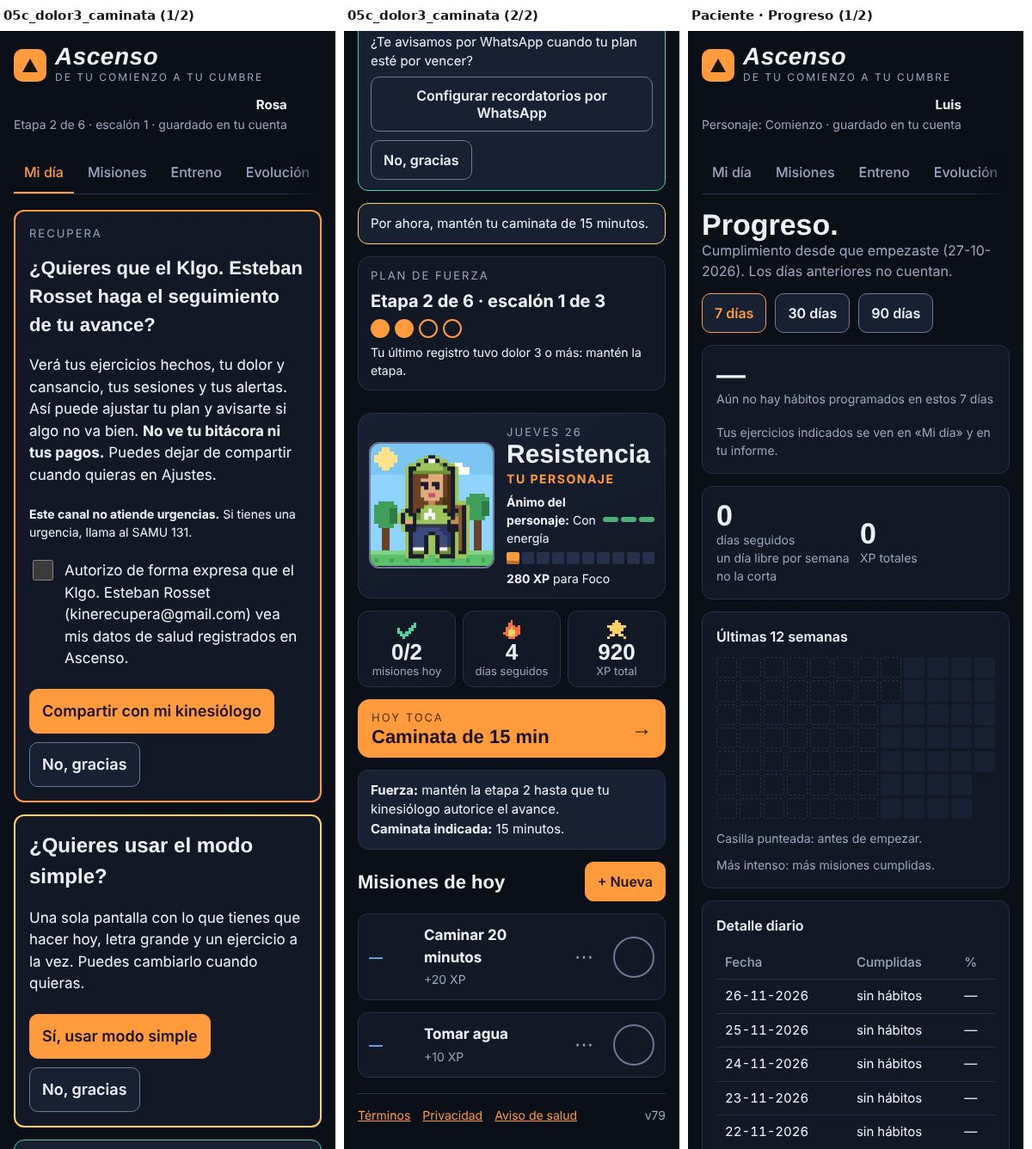
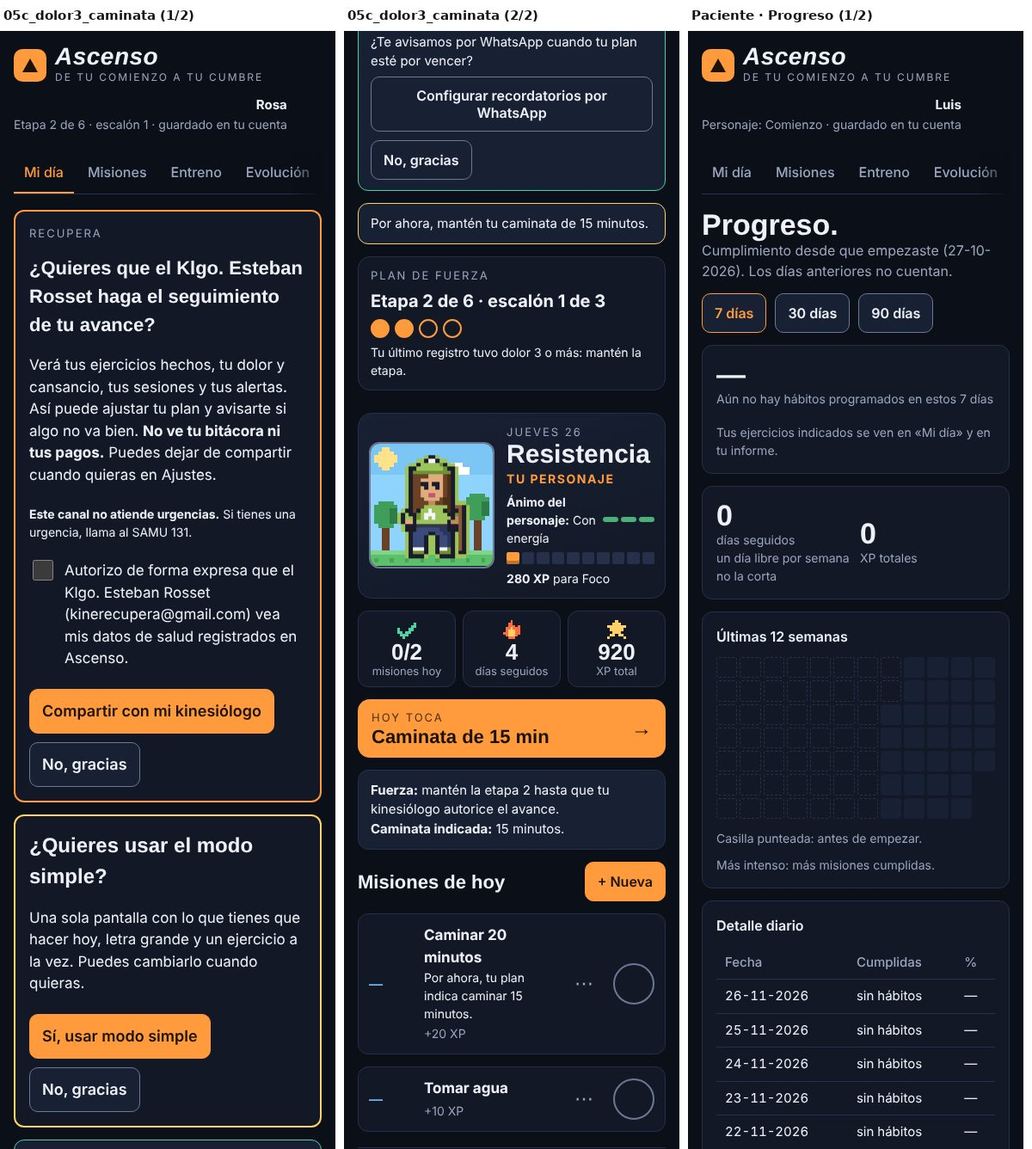
Copia de prueba v79: cuatro decisiones del 26-11 (la app de los pacientes no cambia)
Claude-Session: https://claude.ai/code/session_01J9tU8kEPtqaroEiwXZirqq

Changed region(s): [[0.3392, 0.8286, 0.555, 0.982], [0.5858, 0.89, 0.6475, 0.982], [0.5858, 0.8286, 0.6475, 0.8593]]

diff --git a/beta/index.html b/beta/index.html
@@ -2,7 +2,7 @@
 <html lang="es">
 <head><base href="/ascenso/"><meta name="robots" content="noindex,nofollow"><script>(function(){var P="beta::",S=Storage.prototype,g=S.getItem,t=S.setItem,r=S.removeItem;S.getItem=function(k){return g.call(this,P+k)};S.setItem=function(k,v){return t.call(this,P+k,v)};S.removeItem=function(k){return r.call(this,P+k)};window.__BETA=true;window.__BETA_OK=[]})();</script>
 <meta charset="utf-8">
-<meta http-equiv="Content-Security-Policy" content="script-src 'self' 'sha256-s/2Ct3tFYhvXDkHKQXgCxKZn0b7j8MYsCZJcokQtB40=' 'sha256-rlMPIviDfPSImcaiMeN6RcyIyt8CKX0NikFTPOuSPvA=' 'sha256-AFdyW6QBsN7g3o2Wol3DzaFtzZPYZuMmQ8KwB76Xs6I=' 'sha256-5m2u4pl+QQ/JE5w8ukPTJ/in6Wfsb5JmjLwGXVXoulQ=' 'sha256-x6Jjqo12cp5KPEwhwsD15s6v7TK37973w38eJjFjN10='; object-src 'none'; base-uri 'self'">
+<meta http-equiv="Content-Security-Policy" content="script-src 'self' 'sha256-s/2Ct3tFYhvXDkHKQXgCxKZn0b7j8MYsCZJcokQtB40=' 'sha256-yr4Az85wallbLo+BJuo4EHhn4UUh6kw2YvCLg58huko=' 'sha256-AFdyW6QBsN7g3o2Wol3DzaFtzZPYZuMmQ8KwB76Xs6I=' 'sha256-5m2u4pl+QQ/JE5w8ukPTJ/in6Wfsb5JmjLwGXVXoulQ=' 'sha256-x6Jjqo12cp5KPEwhwsD15s6v7TK37973w38eJjFjN10='; object-src 'none'; base-uri 'self'">
 <meta name="viewport" content="width=device-width,initial-scale=1,viewport-fit=cover">
 <meta name="theme-color" content="#0b0f17">
 
@@ -343,7 +343,7 @@ const STAGES=[
  ["Fuerza",[["sentadilla","3×10","Sentadilla con pausa de 2 segundos abajo"],["flex_rod","3×8"],["zancada","2×8 por lado"],["plancha","3×30 s"]]],
  ["Potencia",[["sentadilla","4×10","Sentadilla lenta (3 segundos al bajar)"],["flex","3×6"],["zancada","3×8 por lado","Zancada caminando"],["lateral","2×20 s por lado"]]],
  ["Dominio",[["bulgara","3×8 por lado"],["flex","4×8"],["puente1","3×10 por lado"],["plancha","3×45 s"]]]];
-const ADULTS_ONLY=true,PRIV_MAIL="kinerecupera@gmail.com",RESP=null;
+const ADULTS_ONLY=true,PRIV_MAIL="kinerecupera@gmail.com",RESP="Esteban Rosset, kinesiólogo, Registro Superintendencia de Salud N.º 525653";
 const LEGAL={
 terms:"TÉRMINOS DE USO\n\nPrestador: Esteban Rosset, kinesiólogo. Contacto: kinerecupera@gmail.com.\n\n1. Qué es. Una aplicación para organizar hábitos, registrar actividad y seguir un plan general de ejercicio. Por sí sola no es un servicio de salud ni reemplaza una evaluación profesional.\n2. Seguimiento con tu profesional. Si decides compartir tu avance con un profesional registrado en Ascenso y te indica ejercicios, esa indicación es parte de la atención que ese profesional te presta, bajo su responsabilidad, y la registra en tu ficha clínica. Puedes dejar de compartir cuando quieras desde Entreno.\n3. Edad. Para personas de 18 años o más. No se admiten menores de 14 años. Una persona de 14 a 17 solo puede usar Ascenso con su kinesiólogo y con la autorización de su madre, padre o tutor legal, que la entrega desde su propia cuenta mediante un código y que el kinesiólogo confirma en persona. Al cumplir 18, la persona decide por sí misma. Sus datos de salud se guardan solo después de esa autorización, que se puede retirar en cualquier momento desde Ajustes (al retirarla se borran). Las cuentas de menores no muestran hábitos de alimentación. Los mensajes que le escribas a tu kinesiólogo desde la app se guardan junto a tu avance y solo los ve él; no es un canal de urgencias.\n4. Acceso. 14 días de prueba gratis, una vez por cuenta. Después, $9.990 CLP por 30 días. No hay cobros automáticos: cada renovación la pagas tú. El acceso se activa automáticamente cuando Mercado Pago aprueba el pago hecho desde el botón Pagar de la app; si eso no ocurre, el administrador lo activa al comprobar el pago. Dos días antes del vencimiento te avisamos en la app y, si activaste los avisos, en tu teléfono.\n5. Vencimiento. Al vencer no puedes registrar nueva actividad, pero tu historial se conserva y siempre puedes descargarlo o borrarlo gratis.\n6. Devoluciones. Si pagaste y no quedaste conforme, escríbenos a kinerecupera@gmail.com y revisamos tu caso.\n7. Uso responsable. Los puntos reflejan constancia, no capacidad física. Detén la actividad ante dolor en el pecho, mareo, palpitaciones o falta de aire fuera de lo normal.",
 privacy:"POLÍTICA DE PRIVACIDAD (Ley 19.628 y Ley 21.719)\n\nResponsable del tratamiento: "+(RESP||"[pendiente de confirmar: nombre legal de la persona natural, o razón social y representante de la empresa]")+". Contacto: kinerecupera@gmail.com. Alojamiento: Supabase (cuentas y datos) y GitHub Pages (aplicación); ambos proveedores operan fuera de Chile.\n\nQué datos tratamos y para qué:\n• Cuenta: tu correo, el nombre que eliges y un identificador. Para darte acceso y escribirte sobre tu cuenta.\n• Fecha de nacimiento (año y mes, obligatorios): para calcular tu edad y adaptar tu plan y las imágenes. Por ahora, Ascenso es solo para personas de 18 años o más.\n• Celular (opcional): solo si lo das, para que tu kinesiólogo pueda llamarte y, si lo autorizas aparte, para recordatorios de renovación por WhatsApp. Si es el número de quien te ayuda, eso no le autoriza a recibir tus datos de salud.\n• Autorización de menores: si autorizas a un menor, guardamos tu nombre, tu relación con él y la fecha, asociados a tu cuenta y a la suya, hasta que la retires o el menor cumpla 18.\n• Peso y estatura (opcionales): para que tu profesional los tenga a la vista. Puedes borrarlos en Ajustes.\n• Actividad: misiones, cumplimiento, puntos y bitácora. Para mostrarte tu progreso.\n• Uso anónimo: contamos por día cuántas veces se usan algunas funciones (por ejemplo, abrir un ejercicio), sin tu nombre, correo ni ningún identificador. Para mejorar la app.\n• Pagos: número de operación y fechas de acceso. Para activar tu membresía.\n• Salud (solo con tu autorización expresa y separada): cuestionario previo, esfuerzo, dolor y síntomas; y, la autorización que registre tu profesional. Para ajustar tu plan de fuerza.\n• Recordatorios por WhatsApp (solo si los aceptas, aparte): usamos tu celular para enviarte recordatorios de renovación cuando tu plan esté por vencer o haya vencido. No enviamos publicidad ni datos de salud por ese medio. Los envía el responsable desde WhatsApp (Meta, fuera de Chile). Puedes desactivarlos en Ajustes o respondiendo NO; tu celular se conserva para el contacto de tu cuenta.\n• Avisos (solo si los activas): identificador de notificaciones de tu dispositivo y tu zona horaria. Para avisarte a la hora de tus misiones.\n• Comentarios (solo si los envías): lo que escribas en «Tu opinión» o en la encuesta de la primera semana, junto a tu correo. Para mejorar la aplicación.\n• Compartir con tu profesional (solo si lo autorizas de forma expresa, y solo con profesionales registrados en Ascenso): el profesional dueño del correo que indiques ve tu cumplimiento, sesiones, esfuerzo, dolor, alertas, cuestionario previo, si usas la versión adaptada y quién autorizó tu avance; y puede indicarte ejercicios, que verás en Entreno. No ve tu bitácora ni tus pagos. Puedes revocarlo cuando quieras en Entreno.\n• Ficha clínica de tu profesional: si un profesional de RECUPERA te indica ejercicios, esa indicación (lista de ejercicios, dosis, fecha) y tu correo se copian a la ficha clínica que RECUPERA lleva de tu atención, alojada en otro proyecto de Supabase (fuera de Chile) y administrada por el mismo responsable. Se rige por la Ley 20.584 y se conserva el tiempo que exige la normativa de fichas clínicas, aunque elimines tu cuenta de Ascenso.\n• Autorizaciones clínicas: si tu profesional autoriza tu plan de fuerza o tu avance, guardamos su correo, la fecha y en qué se basó.\n\nSeguridad: el acceso a tus datos se controla en el servidor; nadie más que tú y los profesionales que autorices los ve. Si ocurre una vulneración que afecte tus datos, te avisaremos por correo y a la autoridad cuando la ley lo exija.\n\nCuánto tiempo: mientras tengas cuenta. Los datos de salud se borran al retirar la autorización. Cuando eliminas tu cuenta se borra todo, salvo los registros de pago (número de operación, monto y fechas), que se guardan el tiempo que exige la ley tributaria.\n\nTus derechos y cómo ejercerlos: puedes pedir saber qué datos tenemos sobre ti, para qué los usamos y a quién se los comunicamos; corregirlos; pedir que se borren; oponerte a un uso o pedir que se bloquee; y pedir una copia para llevarla a otro servicio. Puedes descargar y borrar tus datos desde Ajustes, sin costo. Para cualquier otra solicitud sobre tus datos personales, escribe a "+PRIV_MAIL+", idealmente desde el correo de tu cuenta.",
@@ -417,8 +417,14 @@ function toast(t){const el=$("#toast");el.textContent=t;el.hidden=false;clearTim
 function totalXP(){let x=0;for(const d in S.done)for(const m in S.done[d])x+=S.done[d][m];for(const s of S.train.sessions)x+=s.xp||0;return x}
 function stageIdx(xp){let i=0;XP_STEPS.forEach((v,k)=>{if(xp>=v)i=k});return i}
 function scheduled(m,day){if(m.archived&&m.archived<=day)return false;if(m.created>day)return false;return m.days.includes(pdate(day).getDay())}
+const PHYS_RE=/camin|trot|\bcorr(er|o|e)\b|bici|\bnad(ar|o)\b|ejercic|fuerza|sentadill|yoga|pilates|elong|estir|bail|gimnas|pesas|escaler|deport|entren|pausa activa|plancha|flexi[oó]n/i;
+function isPhys(m){return PHYS_RE.test(String(m&&m.name||""))}
+function planPaused(){if(!S.onboard||!S.onboard.health||!S.train)return false;const tr=trainReady();return tr==="paused"||tr==="hold"}
+function mPaused(m,d){return d===today()&&isPhys(m)&&planPaused()}
+function markPauseDay(){if(planPaused()){S.pauseDays=S.pauseDays||{};S.pauseDays[today()]=1}}
+function walkNote(m){if(!/camin/i.test(String(m&&m.name||""))||!S.train||!S.train.plan||trainReady()!=="ok"||progression().state!=="hold")return"";return`Por ahora, tu plan indica caminar ${S.train.plan.walk} minutos.`}
 function dayMissions(day){return S.missions.filter(m=>scheduled(m,day)).sort((a,b)=>(a.time||"99:99").localeCompare(b.time||"99:99"))}
-function streak(){let n=0,g=0,d=today();const has=x=>S.done[x]&&Object.keys(S.done[x]).length>0,first=S.created||today();if(!has(d))d=addDays(d,-1);for(let k=0;k<1500&&d>=first;k++){if(has(d))n++;else if(dayMissions(d).length===0){}else if(g<1+Math.floor(n/7))g++;else break;d=addDays(d,-1)}return n}
+function streak(){let n=0,g=0,d=today();const has=x=>S.done[x]&&Object.keys(S.done[x]).length>0,first=S.created||today();if(!has(d))d=addDays(d,-1);for(let k=0;k<1500&&d>=first;k++){if(has(d))n++;else if(dayMissions(d).filter(m=>!(S.pauseDays&&S.pauseDays[d]&&isPhys(m))).length===0){}else if(g<1+Math.floor(n/7))g++;else break;d=addDays(d,-1)}return n}
 function memberState(){const m=M||{status:"SIN MEMBRESÍA",active:false},exp=m.expires_at?Date.parse(m.expires_at):0,now=Date.now()+skew,active=!!m.active&&exp>now;let status=m.status;if(status==="ACTIVO"&&!active)status="VENCIDO";return{status,active,exp,kind:m.kind||"",days:active?Math.ceil((exp-now)/DAY):0}}
 function canRecord(){if(memberState().active)return true;toast("Activa tu prueba o renueva para registrar actividad.");tab="planes";render();return false}
 function parqValid(){const t=S.train;return Array.isArray(t.parq)&&t.parq.length===PARQ.length&&(!t.parqAt||t.parqAt>=addDays(today(),-365))}
@@ -445,7 +451,7 @@ function progression(){const t=S.train,last=t.sessions[0],cur=strengthAt(t.stage
 function todayTrain(){const p=S.train.plan;if(!p)return null;const dw=new Date().getDay();return DAYSETS[p.days].d.includes(dw)?"fuerza":"caminata"}
 
 /* ===== Render ===== */
-function render(){
+function render(){try{if(session&&S&&S.onboard)markPauseDay()}catch(_){}
   document.documentElement.classList.toggle("big",!!(S.ui&&S.ui.big));
   $("#appName").textContent=CFG.name;const xp=totalXP(),si=stageIdx(xp);
   $("#whoName").textContent=S.profile.name;$("#whoLevel").textContent=S.train&&S.train.plan?"Etapa "+S.train.stage+" de 6"+(S.train.lvl?" · escalón "+S.train.lvl:""):"Personaje: "+formName(si);
@@ -809,7 +815,7 @@ function painStop(){const f=(S.dayFb||{})[today()]||{};return typeof f.pain==="n
 function sProg(){try{const xp=totalXP(),si=stageIdx(xp),next=XP_STEPS[si+1],pct=next?Math.round((xp-XP_STEPS[si])/(next-XP_STEPS[si])*100):100,av=myAv();
  return`<section class="scard" aria-label="Tu avance"><h2>Tu avance</h2><div style="display:flex;gap:14px;align-items:center"><div style="width:112px;flex:none;border-radius:12px;overflow:hidden">${pxSvg(av,si+1,{anim:motionOn(),label:"Tu personaje: "+formName(si)})}</div><div style="min-width:0;flex:1"><p style="margin:0;font-size:24px;font-weight:800;line-height:1.15">${esc(formName(si))}</p><p style="margin:2px 0 8px;font-size:17px" class="mute">Forma ${si+1} de 16</p>${pbar(pct)}<p style="margin:8px 0 0;font-size:17px">${next?`Te faltan <b>${next-xp} XP</b> para llegar a <b>${esc(formName(si+1))}</b>.`:"¡Llegaste a la cumbre!"}</p></div></div><div style="margin-top:10px">${evoChart()}</div><p class="mute" style="margin:6px 0 0;font-size:16px">Tu personaje sube con cada hábito y ejercicio que cumples.</p></section>`}catch(e){return""}}
 function trPauseMsg(tr){const k=SH.mine.length?"tu kinesiólogo":"un kinesiólogo";if(tr==="paused")return{bad:1,eb:"Plan de fuerza en pausa",t:"Espera la autorización de "+k,sub:"Por tus respuestas del cuestionario previo, el plan (fuerza y caminata) no se registra hasta que te autorice. Tus hábitos siguen igual."};if(tr==="hold")return{bad:1,eb:"Plan en pausa",t:S.train.hold&&S.train.hold.kind==="sintomas"?"Registraste síntomas de alerta":"Registraste dolor alto o nuevo",sub:"Toca para ver qué hacer antes de volver a entrenar."};if(tr==="parq")return{eb:"Plan de fuerza",t:"Responde el cuestionario previo",sub:PARQ.length+" preguntas de Sí o No antes de partir."};if(tr==="consent")return{eb:"Plan de fuerza",t:"Falta tu autorización de datos de salud"};return{eb:"Plan de fuerza",t:"Actívalo en 2 minutos"}}
-function moodDays(){const ds=[];for(const d in (S.done||{}))if(Object.values(S.done[d]||{}).some(v=>+v>0))ds.push(d);for(const x of ((S.train||{}).sessions||[]))if(x.date)ds.push(x.date);for(const d in (S.rxDone||{}))if(Object.keys(S.rxDone[d]||{}).length)ds.push(d);if(!ds.length)return null;const l=ds.sort().pop();return Math.max(0,Math.round((pdate(today())-pdate(l))/864e5))}
+function moodDays(){const ds=[];for(const d in (S.done||{}))if(Object.values(S.done[d]||{}).some(v=>+v>0))ds.push(d);for(const x of ((S.train||{}).sessions||[]))if(x.date)ds.push(x.date);for(const d in (S.rxDone||{}))if(Object.keys(S.rxDone[d]||{}).length)ds.push(d);for(const d in (S.pauseDays||{}))ds.push(d);if(!ds.length)return null;const l=ds.sort().pop();return Math.max(0,Math.round((pdate(today())-pdate(l))/864e5))}
 const MOOD=[["Apagado","Tu personaje te extraña"],["Decaído","Hace días que no se mueve"],["Cansado","Le falta un poco de movimiento"],["Con energía","Está con toda la energía"]];
 function moodLvl(d){return d===null||d<=1?3:d<=3?2:d<=6?1:0}
 function moodBar(){const d=moodDays(),l=moodLvl(d);return`<div class="mood" aria-label="Ánimo de tu personaje: ${MOOD[l][0]}"><span class="small"><b>Ánimo del personaje:</b> ${MOOD[l][0]}</span><span class="moodseg">${[0,1,2].map(i=>`<i class="${i<l?"on m"+l:""}"></i>`).join("")}</span></div>`}
@@ -822,7 +828,7 @@ function vSimple(){const d=today(),its=rxAll(),ms=dayMissions(d),done=S.done[d]|
  <p class="shelp">🤝 Si te ayuda alguien, puede tocar los botones por ti.</p>
  ${its.length&&rxPause()?rxPausedCard(its,"sxPlan"):its.length?`<section class="scard"><h2>Ejercicios de tu kinesiólogo</h2><p style="margin:0;font-size:18px"><b>${nd} de ${its.length}</b> hechos hoy</p>${its.map((it,i)=>{const k=rxKey(it),ok=rxIsDone(k),src=it.ex?rxSrc(it.ex):"";return`<button class="srow${ok?" ok":""}" data-act="sxGo" data-i="${i}">${src?`<img src="${src}" alt="" loading="lazy">`:""}<span><b>${esc(rxName(it))}</b>${it.dose?`<small>${esc(it.dose)}</small>`:""}</span><span class="sst" aria-label="${ok?"Hecho":"Pendiente"}">${ok?"✓":""}</span></button>`}).join("")}${nx>=0?(painStop()?`<div class="banner bad" style="margin-top:12px;font-size:17px"><b>Marcaste dolor ${fb.pain} de 10.</b> Antes de seguir con ejercicios hoy, habla con tu kinesiólogo.</div>${SH.mine.length?`<button class="btn pri sxl" data-act="sxPainNote">Avisarle a mi kinesiólogo</button>`:""}<button class="btn sxl" data-act="sxPainGo">Hablé con mi kinesiólogo y quiero seguir</button>`:`<button class="btn pri sxl" data-act="sxGo" data-i="${nx}">▶ ${nd?(its.length-nd===1?`Ver mi último ejercicio: ${esc(rxName(its[nx]))}`:`Seguir con el siguiente: ${esc(rxName(its[nx]))}`):"Empezar mis ejercicios"}</button>`):`<p style="margin:12px 0 0;font-size:19px">✅ <b>¡Listo por hoy!</b> Hiciste todos tus ejercicios.</p>`}</section>`:anyRx?`<section class="scard"><h2>Ejercicios de tu kinesiólogo</h2><p style="margin:0;font-size:18px">Hoy no te tocan. Descansar también es parte del plan.${rxNext(SH.mine.flatMap(x=>x.rx||[]))?` Los próximos son el <b>${rxNext(SH.mine.flatMap(x=>x.rx||[]))}</b>.`:""}</p></section>`:""}
  ${S.train&&S.train.plan?`<section class="scard"><h2>Tu plan Ascenso</h2>${tr==="ok"?(sessionToday()?`<p style="margin:0;font-size:18px"><b>Tu sesión de hoy ya está registrada.</b> Próxima: ${nextTrainTxt()}.</p>${capLines()}${walkKeep()}<button class="btn sxl" data-act="sxPlan">Ver mi plan</button>`:`<p style="margin:0;font-size:18px">Hoy toca <b>${tt==="fuerza"?"fuerza · etapa "+S.train.stage:"caminata de "+S.train.plan.walk+" minutos"}</b>.</p>${capLines()}${walkKeep()}<button class="btn sxl" data-act="sxPlan">Hacer mi plan de hoy</button>`):`<p style="margin:0;font-size:18px"><b>${trPauseMsg(tr).t}.</b>${trPauseMsg(tr).sub?" "+trPauseMsg(tr).sub:""}</p><button class="btn sxl" data-act="sxPlan">Ver mi plan</button>`}</section>`:""}
- ${ms.length?`<section class="scard"><h2>Tus hábitos de hoy</h2><p class="mute" style="margin:0">Toca cada uno cuando lo cumplas.</p>${ms.map(m=>`<button class="srow${done[m.id]?" ok":""}" data-act="toggle" data-id="${m.id}"><span><b>${esc(m.name)}</b>${m.time?`<small>${esc(m.time)}</small>`:""}</span><span class="sst" aria-label="${done[m.id]?"Cumplido":"Pendiente"}">${done[m.id]?"✓":""}</span></button>`).join("")}</section>`:""}
+ ${ms.length?`<section class="scard"><h2>Tus hábitos de hoy</h2><p class="mute" style="margin:0">Toca cada uno cuando lo cumplas.</p>${ms.map(m=>!done[m.id]&&mPaused(m,today())?`<div class="srow" aria-disabled="true" style="opacity:.75"><span><b>${esc(m.name)}</b><small>En pausa junto con tu plan</small></span><span class="sst" aria-label="En pausa">⏸</span></div>`:`<button class="srow${done[m.id]?" ok":""}" data-act="toggle" data-id="${m.id}"><span><b>${esc(m.name)}</b>${walkNote(m)?`<small>${walkNote(m)}</small>`:m.time?`<small>${esc(m.time)}</small>`:""}</span><span class="sst" aria-label="${done[m.id]?"Cumplido":"Pendiente"}">${done[m.id]?"✓":""}</span></button>`).join("")}</section>`:""}
  <section class="scard"><h2>¿Cómo te sentiste hoy?</h2>${sScale("tired","Cansancio",fb.tired)}${sScale("pain","Dolor",fb.pain)}${fb.pain>=6?`<p class="banner bad" style="margin:12px 0 0;font-size:17px">Con dolor de ${fb.pain} de 10, no sigas con ejercicios hoy sin hablar antes con tu kinesiólogo. ${SH.mine.length?"Él verá este aviso.":""} Si el dolor es muy fuerte o aparece de golpe, llama al SAMU 131.</p>${samuBox("10px 0 0")}`:""}</section>
  ${sProg()}
  <div class="stack" style="gap:10px"><button class="btn sbtn" data-act="sxMore">⚙ Más opciones</button><button class="btn sbtn" data-act="simpleOff">Salir del modo simple</button></div></div>`}
@@ -848,9 +854,9 @@ function vDia(){if(S.ui&&S.ui.simple&&!view.sOut)return vSimple();const d=today(
  ${view.form?vMissionForm():""}
  ${ms.length?ms.map(m=>missionRow(m,d,true)).join(""):`<div class="card"><h3>Tu primera misión empieza aquí</h3><p class="mute">Crea una o elige entre 24 hábitos sugeridos.</p><div class="row"><button class="btn" data-act="tab" data-k="misiones">Ver sugeridos</button></div></div>`}`}
 
-function missionRow(m,d,act){const dn=(S.done[d]||{})[m.id],op=act&&view.mo===m.id;
+function missionRow(m,d,act){const dn=(S.done[d]||{})[m.id],op=act&&view.mo===m.id,mp=act&&!dn&&mPaused(m,d),wn=act?walkNote(m):"";
  const links=`${m.dur&&act?`<button class="link" data-act="startTimer" data-id="${m.id}">Temporizador</button>`:""}${m.time?`<a class="link" style="color:var(--accent)" target="_blank" rel="noopener" href="${calUrl(m)}">Google Calendar</a>`:""}<button class="link" data-act="editMission" data-id="${m.id}">Editar</button>`;
- return`<div class="mission ${dn?"done":""}"><span class="t">${esc(m.time||"—")}</span><div class="n"><b>${esc(m.name)}</b><span class="mute small">+${+m.xp||0} XP${m.dur?" · "+m.dur+" min":""}${act?"":` · ${esc(m.cat)} · ${m.days.length===7?"todos los días":m.days.map(x=>DOW[x]).join(", ")}`}</span>${!act||op?`<div class="row small" style="margin-top:4px">${links}</div>`:m.dur?`<div class="row small" style="margin-top:4px"><button class="link" data-act="startTimer" data-id="${m.id}">Temporizador</button></div>`:""}</div>${act?`<button class="more" data-act="mMore" data-id="${m.id}" aria-expanded="${op}" aria-label="Opciones de ${esc(m.name)}">⋯</button><button class="check" aria-label="${dn?"Desmarcar":"Marcar como cumplida"}" data-act="toggle" data-id="${m.id}">${dn?"✓":""}</button>`:""}</div>`}
+ return`<div class="mission ${dn?"done":""}${mp?" paused":""}"${mp?' aria-disabled="true"':""}><span class="t">${esc(m.time||"—")}</span><div class="n"><b>${esc(m.name)}</b>${mp?`<span class="small" style="display:block;color:var(--warn,#b45309)"><b>En pausa junto con tu plan.</b> No suma ni resta puntos ni racha.</span>`:wn?`<span class="small" style="display:block">${wn}</span>`:""}<span class="mute small">${mp?"":`+${+m.xp||0} XP`}${m.dur?" · "+m.dur+" min":""}${act?"":` · ${esc(m.cat)} · ${m.days.length===7?"todos los días":m.days.map(x=>DOW[x]).join(", ")}`}</span>${!act||op?`<div class="row small" style="margin-top:4px">${links}</div>`:m.dur?`<div class="row small" style="margin-top:4px"><button class="link" data-act="startTimer" data-id="${m.id}">Temporizador</button></div>`:""}</div>${act?`<button class="more" data-act="mMore" data-id="${m.id}" aria-expanded="${op}" aria-label="Opciones de ${esc(m.name)}">⋯</button>${mp?"":`<button class="check" aria-label="${dn?"Desmarcar":"Marcar como cumplida"}" data-act="toggle" data-id="${m.id}">${dn?"✓":""}</button>`}`:""}</div>`}
 
 function calUrl(m){let d=today();for(let i=0;i<7&&!m.days.includes(pdate(d).getDay());i++)d=addDays(d,1);const[h,mi]=m.time.split(":").map(Number),s=d.replace(/-/g,"")+"T"+pad(h)+pad(mi)+"00",e=new Date(pdate(d).getTime()+(h*60+mi+15)*6e4),es=dstr(e).replace(/-/g,"")+"T"+pad(e.getHours())+pad(e.getMinutes())+"00";
  let tz="America/Santiago";try{tz=Intl.DateTimeFormat().resolvedOptions().timeZone||tz}catch(e){}
@@ -877,7 +883,7 @@ function vEntreno(){const t=S.train,r=trainReady();let body="";
  else if(r==="parq")body=`<form class="card" id="parqForm"><h3>Cuestionario previo</h3><p class="mute">Responde Sí o No a las ${PARQ.length} preguntas. Sirve para saber si conviene que te evalúe un profesional antes de partir.${Array.isArray(t.parq)&&!parqValid()?" Te lo pedimos de nuevo porque cambió o porque pasó más de un año.":""}</p>${PARQ.map((q,i)=>`<fieldset style="border:0;border-top:1px solid var(--line);margin:0;padding:10px 0 0;display:flex;gap:10px;justify-content:space-between;flex-wrap:wrap;align-items:center"><legend class="sr">${i+1}. ${q}</legend><span aria-hidden="true" style="flex:1;min-width:200px">${i+1}. ${q}</span><span class="row"><label class="chk tap"><input type="radio" name="q${i}" value="1" required> Sí</label><label class="chk tap"><input type="radio" name="q${i}" value="0"> No</label></span></fieldset>`).join("")}<div class="row"><button class="btn pri" type="submit">Guardar respuestas</button></div></form>`;
  else if(r==="paused"){const fl=parqFlags(),hard=fl.some(i=>PARQ_HARD.includes(i));body=`<form class="card" id="clearForm"><div class="banner ${hard?"bad":"warn"}"><b>${hard?"Necesitas una evaluación profesional antes de usar este plan.":"Consulta con tu médico o kinesiólogo antes de empezar."}</b> Respondiste Sí en:<ul style="margin:6px 0 0;padding-left:20px">${fl.map(i=>`<li>${PARQ[i]}</li>`).join("")}</ul></div><p class="banner small" style="margin:8px 0"><b>Mientras tanto, tu plan está detenido:</b> la app no muestra ni registra sesiones de fuerza ni caminatas${t.parqAt?" desde el "+fmtDate(t.parqAt):""}. Si caminas por tu cuenta, cuéntaselo a tu kinesiólogo: él puede anotarlo en su panel como caminata informada por ti.</p>${hard?`<p>Estas respuestas pueden indicar un riesgo al hacer ejercicio. No actives el plan de fuerza hasta que un profesional de salud te haya evaluado. Tus hábitos siguen funcionando igual.</p>`:""}${SH.mine.length?`<p><b>Pídele a tu kinesiólogo que revise tus respuestas.</b> Por seguridad, la autorización la registra tu profesional (${esc(SH.mine.map(x=>x.email).join(", "))}) desde su panel, no tú. Cuando lo haga, tu plan se activa solo.</p>`:`<p><b>Necesitas que un kinesiólogo registrado en Ascenso te autorice.</b> Comparte tu avance con tu kinesiólogo (más abajo, en «Compartir mi avance con mi profesional») para que pueda revisar tus respuestas y autorizarte desde su panel.</p>`}<div class="row">${SH.mine.length?`<button class="btn pri" type="button" data-act="clrCheck">Ya me autorizó, revisar</button>`:""}<button class="btn" type="button" data-act="redoParq">Me equivoqué, responder de nuevo</button></div><p class="mute small">La autorización queda registrada con fecha, nombre del profesional y en qué se basó. Aparece en tu resumen de salud. Tus hábitos siguen funcionando igual mientras tanto.</p></form>`}
  else if(r==="plan")body=`<form class="card" id="planForm"><h3>Crear mi plan de tres días</h3><label>3 días de fuerza por semana<select id="pDays">${Object.entries(DAYSETS).map(([k,v])=>`<option value="${k}">${v.label}</option>`).join("")}</select></label><label>Duración inicial de la caminata<select id="pWalk">${[5,10,15,20,30].map(n=>`<option value="${n}" ${n===10?"selected":""}>${n} minutos</option>`).join("")}</select></label><label class="chk tap"><input type="checkbox" id="pSenior" ${t.senior?"checked":""}> <span>Tengo 60 años o más, o prefiero la versión adaptada (ilustraciones con una persona mayor y consejos de seguridad extra).</span></label><p class="mute small">Si estás retomando, elige 5 o 10 minutos y un ritmo cómodo. Puedes hacer menos y registrar lo que realmente hiciste.</p><div class="row"><button class="btn pri" type="submit">Activar mi plan</button></div></form>`;
- else if(r==="hold"){const h=t.hold,sx=h.kind==="sintomas";body=`<div class="card"><div class="banner bad"><b>Tu plan está en pausa.</b> El ${fmtDate(h.at)} registraste ${sx?"síntomas de alerta":"dolor alto o un dolor nuevo"}.</div>${sx?samuBox():""}<p>${sx?"Si los síntomas siguen, fueron intensos o se repiten, consulta a un profesional antes de volver a entrenar. ":"Descansa de la fuerza hasta que el dolor vuelva a tu nivel habitual. Si no mejora en unos días, o empeora, consulta a un profesional."}</p>${SH.mine.length?`<p class="small"><b>Tu kinesiólogo ve este aviso en su panel</b> (${esc(SH.mine.map(x=>x.email).join(", "))}). Si no te contacta en 48 horas, escríbele tú.</p>`:`<p class="small">Si tienes kinesiólogo, comparte tu avance con él en Entreno para que vea este aviso.</p>`}<label class="chk tap"><input type="checkbox" id="holdChk"> <span>${sx?"Los síntomas pasaron y, si fue necesario, consulté a un profesional.":"El dolor volvió a mi nivel habitual."}</span></label><div class="row"><button class="btn pri" data-act="holdOff" data-m="same">Reanudar mi plan</button>${t.stage>1?`<button class="btn" data-act="holdOff" data-m="down">Reanudar una etapa más abajo</button>`:""}</div><p class="mute small">Al reanudar, el avance de etapa parte de cero${sx?" y te pediremos responder de nuevo el cuestionario previo":""}.</p>${(()=>{const hs=t.sessions.find(x=>x.id===h.sid);return hs&&hs.date===today()?`<p class="small" style="margin:8px 0 0">¿Te equivocaste al registrar hoy? <button class="link tap" data-act="delToday">Corregir el registro de hoy</button></p>`:""})()}</div>`}
+ else if(r==="hold"){const h=t.hold,sx=h.kind==="sintomas";body=`<div class="card"><div class="banner bad"><b>Tu plan está en pausa.</b> El ${fmtDate(h.at)} registraste ${sx?"síntomas de alerta":"dolor alto o un dolor nuevo"}.</div>${sx?samuBox():""}<p>${sx?"Si los síntomas siguen, fueron intensos o se repiten, consulta a un profesional antes de volver a entrenar. ":"Descansa de la fuerza hasta que el dolor vuelva a tu nivel habitual. Si no mejora en unos días, o empeora, consulta a un profesional."}</p>${SH.mine.length?`<p class="small"><b>Tu kinesiólogo ve este aviso en su panel</b> (${esc(SH.mine.map(x=>x.email).join(", "))}). Si no te contacta en 48 horas, escríbele tú.</p>`:`<p class="small">Si tienes kinesiólogo, comparte tu avance con él en Entreno para que vea este aviso.</p>`}${sx?`<p id="holdKineOnly"><b>Solo tu kinesiólogo puede levantar esta pausa</b>, desde su panel, después de revisar tus síntomas.${SH.mine.length?"":" Para que pueda revisarla, comparte tu avance con él en Entreno."}</p>`:`<label class="chk tap"><input type="checkbox" id="holdChk"> <span>El dolor volvió a mi nivel habitual.</span></label><div class="row"><button class="btn pri" data-act="holdOff" data-m="same">Reanudar mi plan</button>${t.stage>1?`<button class="btn" data-act="holdOff" data-m="down">Reanudar una etapa más abajo</button>`:""}</div><p class="mute small">Al reanudar, el avance de etapa parte de cero.</p>`}${(()=>{const hs=t.sessions.find(x=>x.id===h.sid);return hs&&hs.date===today()?`<p class="small" style="margin:8px 0 0">¿Te equivocaste al registrar hoy? <button class="link tap" data-act="delToday">Corregir el registro de hoy</button></p>`:""})()}</div>`}
  else{const tt=todayTrain(),st=STAGES[t.stage-1],pr=progression(),sd=sessionToday(),wu=walkUp();
   body=`${sd?`<div class="banner ok" id="sdTop"><b>Tu sesión de hoy ya está registrada</b> (${esc(sd.type)}, ${esc(sd.result)}). Próxima: ${nextTrainTxt()}.</div>`:""}${pr.state==="hold"?`<div class="banner warn" id="walkKeep"><b>Dolor ${t.sessions[0]&&t.sessions[0].pain} en tu último registro:</b> mantén la etapa actual y no subas la carga. Por ahora, mantén tu caminata de ${t.plan.walk} minutos.</div>`:pr.state==="cap"?`<form class="banner warn" id="sokForm"><b>Cumpliste las sesiones para avanzar, pero en la versión adaptada el plan se queda en la etapa ${t.stage}.</b> Desde la etapa 3 aparecen ejercicios más exigentes, como la plancha completa y el puente a una pierna. Para seguir avanzando, pide a tu médico o kinesiólogo que revise cómo los haces. Mientras tanto puedes seguir entrenando en esta etapa todo el tiempo que quieras.<p class="small" style="margin:8px 0 0">${SH.mine.length?"Tu kinesiólogo puede autorizarlo desde su panel. Cuando lo haga, podrás seguir avanzando.":"Comparte tu avance con tu kinesiólogo (en Entreno) para que pueda revisarlo y autorizarlo desde su panel."}</p></form>${capLines()}`:pr.state==="advance"?lvUpCard(1):t.stage<6?`${seniorCap()?capLines():""}<p class="mute small">Avance de etapa: ${Math.min(pr.n,NEED)} de ${NEED} sesiones de fuerza en días distintos. Para avanzar deben ser completas, con esfuerzo de 6 o menos y dolor de 2 o menos.</p>`:""}${pr.state!=="advance"?lvUpCard(1):""}
   <div class="card"><div class="row sp"><h3>Hoy: ${tt==="fuerza"?"fuerza":"caminata"}</h3><span class="pill acc">Etapa ${t.stage} de 6 · ${st[0]}${t.lvl?" · escalón "+t.lvl+" de "+LVMAX:""}</span></div>${tt==="fuerza"?`<details><summary>Antes de partir: calentamiento de 5 minutos</summary><ul style="margin:8px 0 0;padding-left:20px"><li>Camina en el lugar o por la casa 2 minutos.</li><li>10 círculos de hombros hacia adelante y 10 hacia atrás.</li><li>10 balanceos suaves de cada pierna, afirmado de un mueble.</li><li>5 repeticiones lentas del primer ejercicio, sin esfuerzo.</li></ul></details><div class="stack" style="gap:8px">${st[1].map(([id,dose,alt],k)=>{const x=EX[id],op=view.ex===k;return`<div style="border:1px solid var(--line2);border-radius:10px;padding:10px 12px"><div class="row sp"><span><b>${alt||x.n}</b> <span class="mute">· ${doseAt(dose,t.lvl||0)}</span></span><button class="btn" data-act="exOpen" data-k="${k}" aria-expanded="${op}">${op?"Ocultar":"Cómo hacerlo"}</button></div>${op?`${exImg(id,x)}<ol style="margin:10px 0 0;padding-left:20px">${x.how.map(h=>`<li>${h}</li>`).join("")}</ol><p class="small" style="margin-top:8px"><b>Ritmo:</b> ${TEMPO[id]||""}</p><p class="small" style="margin-top:4px"><b>Cuidado:</b> ${x.care}</p>${exReview(id)}`:""}</div>`}).join("")}</div><p class="mute">Descansa 60 a 90 segundos entre series. Esfuerzo ideal: 4 a 6 de 10, podrías hacer 2 o 3 repeticiones más. <b>No aguantes la respiración:</b> bota el aire al hacer fuerza.</p><p class="mute small">Entrena en un espacio despejado, con calzado firme o descalzo sobre una superficie que no resbale, y con un apoyo estable al alcance de la mano.</p>${t.senior?`<div class="banner"><b>Versión adaptada.</b> Ten siempre una silla o un mesón firme al lado. Para bajar al suelo, afírmate de la silla y apoya primero una rodilla; para subir, hazlo lento y espera unos segundos de pie antes de caminar. Si no puedes bajar al suelo con seguridad, salta los ejercicios de suelo y coméntalo con tu profesional.</div>`:""}`:`<p>Camina ${t.plan.walk} minutos a un ritmo en que puedas conversar sin quedar sin aire. Usa calzado cómodo y un recorrido plano y conocido.</p>`}<p class="mute small">Días de fuerza: ${DAYSETS[t.plan.days].label}. <button class="link tap" data-act="resetPlan">Cambiar plan</button> · <button class="link tap" data-act="seniorToggle">${t.senior?"Volver a la versión estándar":"Usar versión adaptada para adulto mayor"}</button> · <button class="link tap" data-act="stageDown" ${t.stage>1?"":"hidden"}>Bajar una etapa</button>${t.lvl?` · <button class="link tap" data-act="stepDown">Bajar un escalón</button>`:""}</p>
@@ -987,7 +993,7 @@ const A={
  newMission(){view.form={xp:20,cat:"Cuerpo"};render()}, cancelForm(){view.form=null;render()},
  editMission(e){const m=S.missions.find(x=>x.id===e.dataset.id);view.form=Object.assign({},m);render()},
  archive(e){const m=S.missions.find(x=>x.id===e.dataset.id);m.archived=today();view.form=null;save();render();toast("Misión archivada. Tus logros se conservan.")},
- toggle(e){const d=today(),id=e.dataset.id;if(!canRecord())return;S.done[d]=S.done[d]||{};if(S.done[d][id]){if(S.ui&&S.ui.simple&&view.unh!==id){view.unh=id;setTimeout(()=>{view.unh=null},4000);return toast("Toca de nuevo para desmarcar")}view.unh=null;delete S.done[d][id];save();render();return}const m=S.missions.find(x=>x.id===id),before=stageIdx(totalXP());S.done[d][id]=m.xp;save();render();const after=stageIdx(totalXP());if(after<=before)toast(S.ui&&S.ui.simple&&!view.sOut?"¡Bien hecho!":"+"+m.xp+" XP")},
+ toggle(e){const d=today(),id=e.dataset.id;if(!(S.done[d]||{})[id]&&mPaused(S.missions.find(x=>x.id===id),d))return toast("Esta misión está en pausa junto con tu plan.");if(!canRecord())return;S.done[d]=S.done[d]||{};if(S.done[d][id]){if(S.ui&&S.ui.simple&&view.unh!==id){view.unh=id;setTimeout(()=>{view.unh=null},4000);return toast("Toca de nuevo para desmarcar")}view.unh=null;delete S.done[d][id];save();render();return}const m=S.missions.find(x=>x.id===id),before=stageIdx(totalXP());S.done[d][id]=m.xp;save();render();const after=stageIdx(totalXP());if(after<=before)toast(S.ui&&S.ui.simple&&!view.sOut?"¡Bien hecho!":"+"+m.xp+" XP")},
  startTimer(e){const m=S.missions.find(x=>x.id===e.dataset.id);S.timer={mid:m.id,dur:m.dur,acc:0,since:Date.now(),run:true,rang:false};save();render()},
  timerToggle(){const t=S.timer;if(t.rang)return;if(t.run){t.acc=timerElapsed();t.run=false}else{t.since=Date.now();t.run=true}save();render()},
  timerStop(){S.timer=null;save();render()},
@@ -1032,7 +1038,7 @@ const A={
  seniorToggle(){S.train.senior=!S.train.senior;view.exStill=false;save();render();toast(S.train.senior?"Versión adaptada activada":"Versión estándar activada")},
  walkUp(){const w=walkUp();if(!w)return;S.train.plan.walk=w;S.train.walkAt=Date.now();save();render();toast("Caminata: "+w+" minutos")},
  delToday(){const t=S.train,s=sessionToday();if(!s)return;t.sessions=t.sessions.filter(x=>x.id!==s.id);t.deleted=[s.id,...(t.deleted||[])].slice(0,50);if(t.hold&&t.hold.sid===s.id)t.hold=null;view.log=null;save();render();toast("Registro de hoy eliminado. Puedes registrarlo de nuevo.")},
- holdOff(e){if(!$("#holdChk").checked)return toast("Marca la casilla para confirmar.");const t=S.train,sx=t.hold&&t.hold.kind==="sintomas";{const hs=t.hold&&t.sessions.find(x=>x.id===t.hold.sid);if(hs){hs.paused=t.hold.kind;hs.resumedAt=Date.now()}}if(e.dataset.m==="down"&&t.stage>1)t.stage--;t.hold=null;t.stageAt=Date.now();if(sx){t.parq=null;t.cleared=null;t.clearedBy=null}save();render();toast("Plan reanudado en la etapa "+t.stage)},
+ holdOff(e){if(S.train.hold&&S.train.hold.kind==="sintomas")return toast("Solo tu kinesiólogo puede levantar esta pausa.");if(!$("#holdChk").checked)return toast("Marca la casilla para confirmar.");const t=S.train,sx=t.hold&&t.hold.kind==="sintomas";{const hs=t.hold&&t.sessions.find(x=>x.id===t.hold.sid);if(hs){hs.paused=t.hold.kind;hs.resumedAt=Date.now()}}if(e.dataset.m==="down"&&t.stage>1)t.stage--;t.hold=null;t.stageAt=Date.now();if(sx){t.parq=null;t.cleared=null;t.clearedBy=null}save();render();toast("Plan reanudado en la etapa "+t.stage)},
  scale(e){view.log[e.dataset.s]=+e.dataset.v;const f=$("#logForm");view.log.ex=[...document.querySelectorAll("#logForm .logEx:checked")].map(x=>x.value);view.log.result=f.res.value;view.log.alert=$("#logAlert").checked;view.log.painNew=$("#logNew").checked;view.log.note=$("#logNote").value;view.log.sx=[...document.querySelectorAll("#logForm .sxk:checked")].map(x=>x.value);render()},
  sxNo(){logKeep();const l=view.log;l.alert=false;l.ask=false;l.sx=[];render();const f=$("#logForm");if(f)f.requestSubmit()},
  stepUp(){if(!stepReady())return;const t=S.train;t.lvl=(t.lvl||0)+1;t.lvlAt=Date.now();save();render();toast("Subiste al escalón "+t.lvl)},
